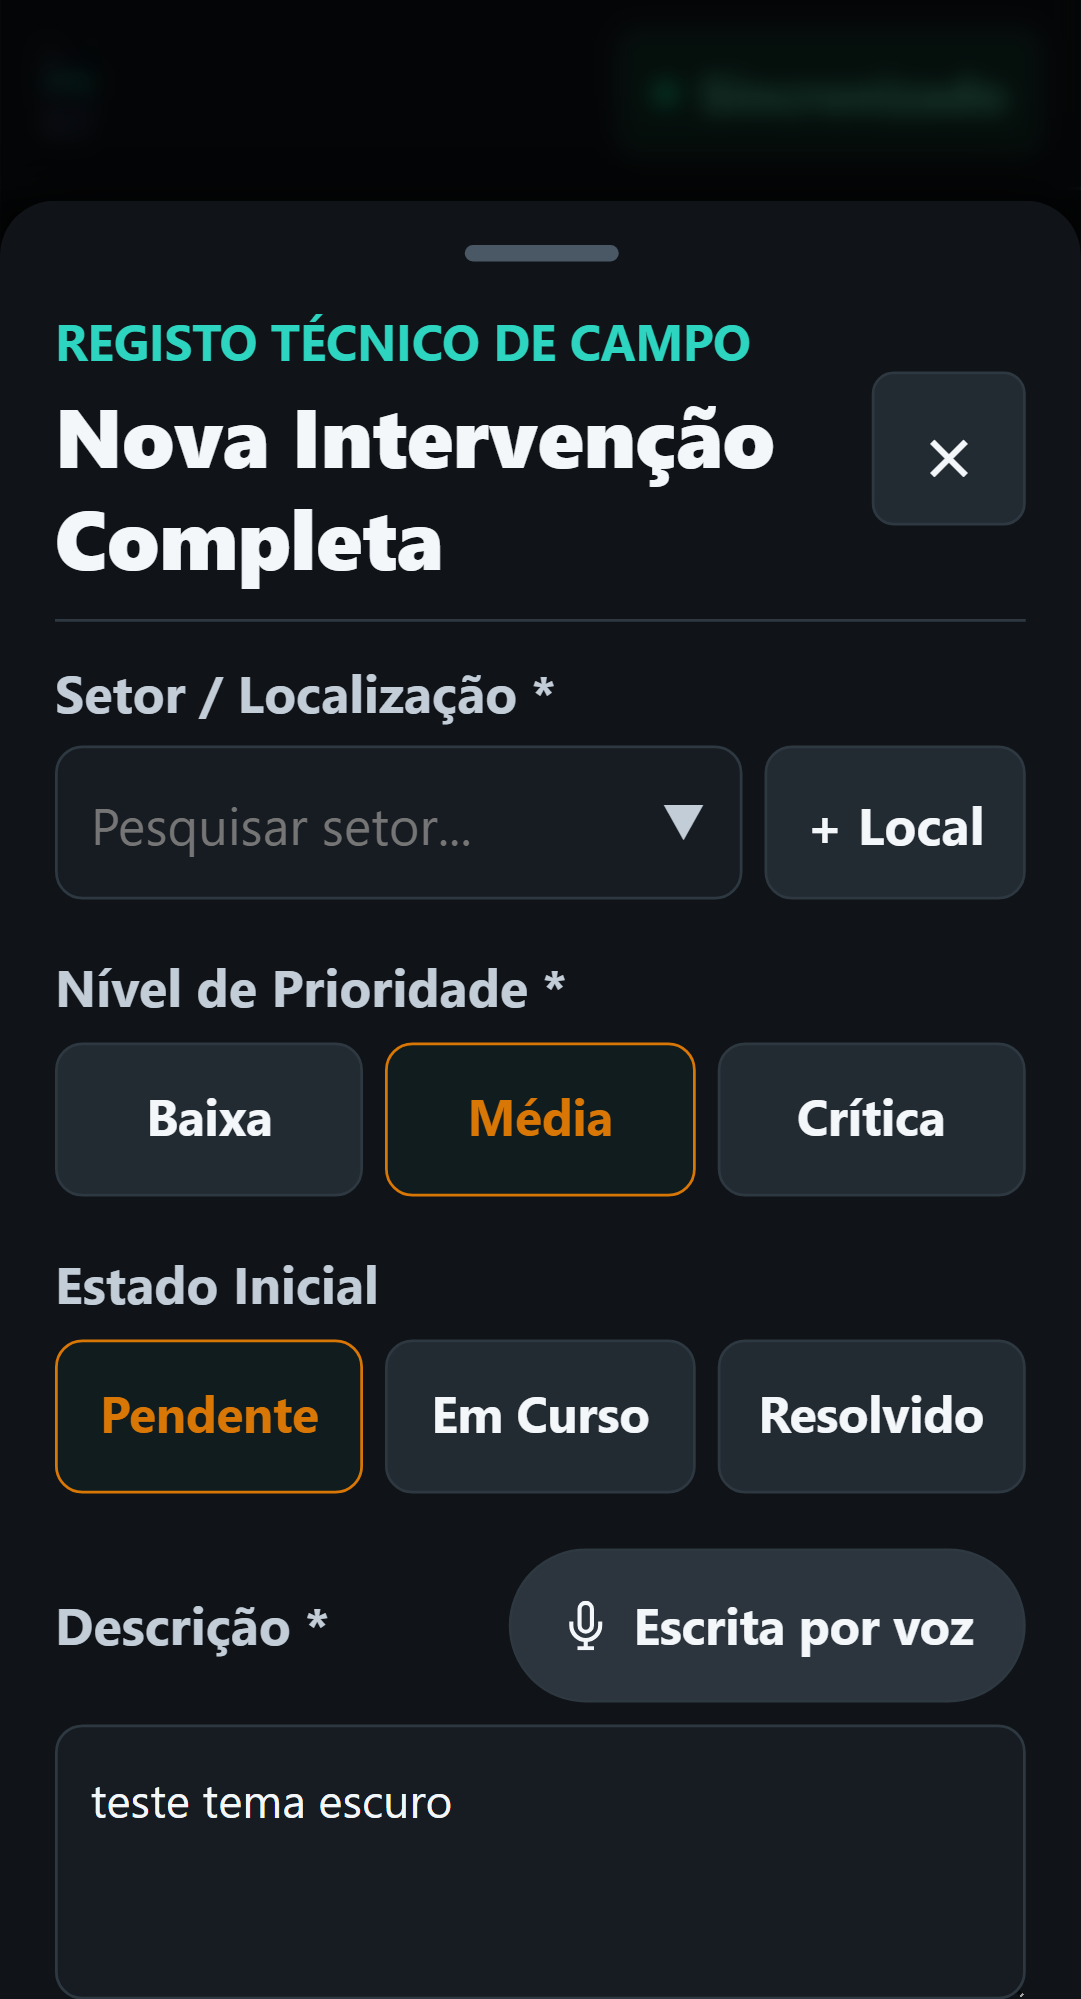
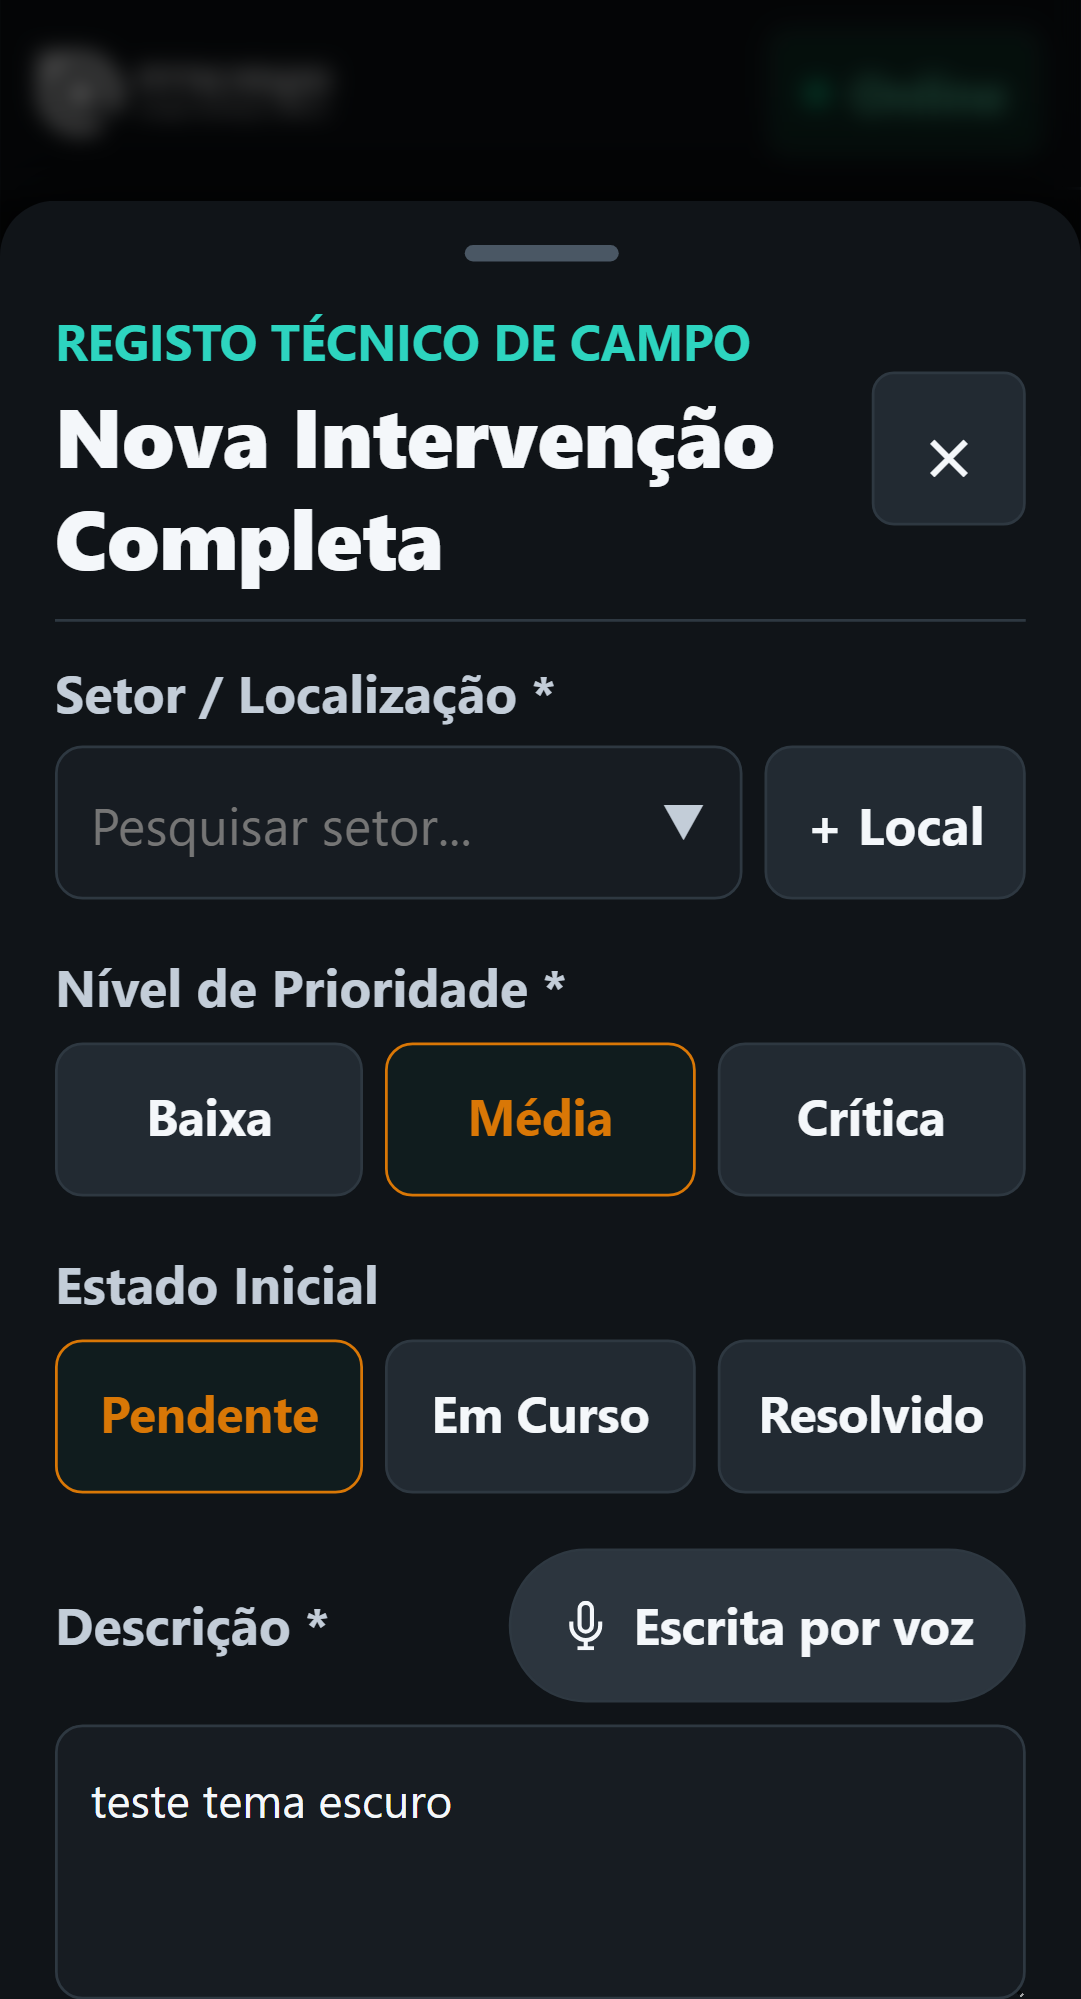
fix: logotipo horizontal no cabecalho em vez da versao quadrada esmagada
O cabecalho usava logo-mmcrespo.png, que e a versao QUADRADA da marca (simbolo
em cima, texto em baixo). Esmagada para 34px de altura, o subtitulo
'energia | tecnologia | edificios' ficava ilegivel e o conjunto parecia uma
captura de ecra colada no canto.

Nenhum dos 15 ficheiros em public/icons/ era um logotipo horizontal em boa
qualidade: dois eram desenhos aproximados em SVG (nao a marca real), um tinha
fundo azul pintado, outro tinha ruido de compressao, e os dois horizontais
existentes eram minusculos (132x48 e 424x42) e ilegiveis.

Construidos a partir do quadrado, separando simbolo e texto e pondo-os lado a
lado (451x128, ratio 3,52), com o branco do fundo passado a transparente:
  public/icons/mmcrespo-header.png        para o tema claro
  public/icons/mmcrespo-header-white.png  para o tema escuro

Altura no cabecalho: 30px -> 106px de largura. Cabe em 320px de ecra com folga.
O ecra de arranque continua com a versao quadrada, que ali e a correta.

Verificado: 133 unitarios, 25/25 browser, 13/13 tema escuro+offline,
logo legivel e sem sobreposicao em 320/360/393/430px.

Changed region(s): [[0.0305, 0.0, 0.1221, 0.093], [0.1526, 0.031, 0.3053, 0.062], [0.6105, 0.031, 0.7021, 0.062]]

diff --git a/maintenance_app/src/ui/header.js b/maintenance_app/src/ui/header.js
@@ -46,11 +46,13 @@ export class HeaderComponent {
     // corrigir tamanhos a partir da folha de estilos.
     this.container.innerHTML = `
       <div class="header-content">
-        <!-- Duas versões do logótipo, uma por tema. O CSS mostra a certa: o
-             logótipo normal é escuro e desaparecia no tema escuro. Sem
-             JavaScript pelo meio — só o CSS decide. -->
-        <img class="header-logo header-logo--light" src="/icons/logo-mmcrespo.png" alt="mmcrespo" />
-        <img class="header-logo header-logo--dark" src="/icons/mmcrespo_white.png" alt="" aria-hidden="true" />
+        <!-- Logótipo HORIZONTAL (símbolo à esquerda, texto à direita).
+             Antes usava-se a versão quadrada (símbolo em cima, texto em baixo)
+             esmagada para 34px de altura: o subtítulo ficava ilegível e o
+             conjunto parecia uma captura de ecrã colada no canto.
+             Duas versões, uma por tema — só o CSS decide qual se vê. -->
+        <img class="header-logo header-logo--light" src="/icons/mmcrespo-header.png" alt="mmcrespo" />
+        <img class="header-logo header-logo--dark" src="/icons/mmcrespo-header-white.png" alt="" aria-hidden="true" />
         <div class="header-status">
           <button type="button" id="connectivity-badge" class="status-badge ${badgeClass}" title="Toque para sincronizar">
             <span class="status-dot"></span>

diff --git a/maintenance_app/src/styles/theme.css b/maintenance_app/src/styles/theme.css
@@ -352,10 +352,13 @@ body {
 
 /* O logótipo mmcrespo é a única marca de que ele precisa aqui. Fica pequeno:
    o cabeçalho é moldura, não é conteúdo. */
+/* Logótipo horizontal: 451x128 (ratio 3,52). A 30px de altura dá ~106px de
+   largura — cabe à vontade nos 390px de um telemóvel, ao lado do estado de
+   ligação, e o subtítulo continua a ler-se. O max-width é folga, não corte. */
 .header-logo {
-  height: 34px;
+  height: 30px;
   width: auto;
-  max-width: 130px;
+  max-width: 150px;
   object-fit: contain;
   display: block;
 }
